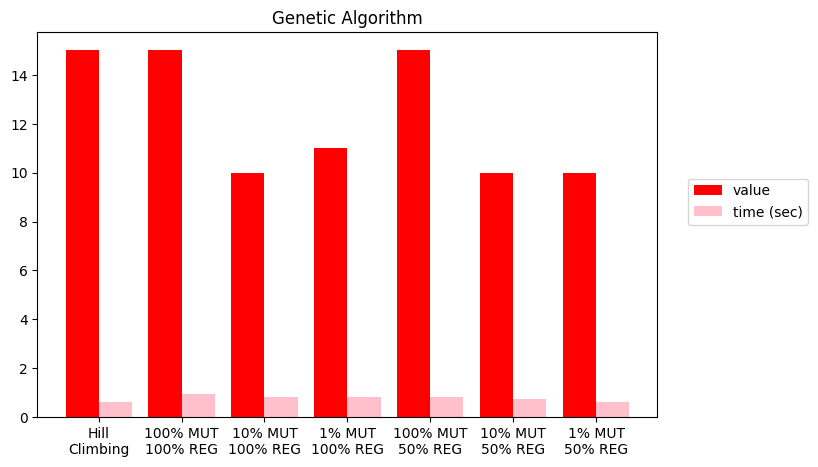
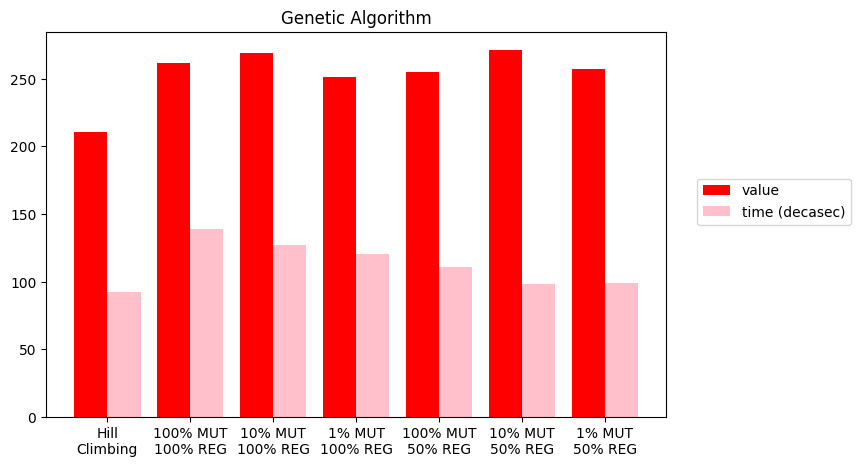
Removed y min plot

diff --git a/graphs.py b/graphs.py
@@ -110,7 +110,6 @@ def plot_genetic(data_center, iterations, neighbour_modes):
     pyplot.xticks(x_axis, algorithms)
     pyplot.title('Genetic Algorithm')
     ax = pyplot.gca()
-    ax.set_ylim(ymin = 0)
     pyplot.savefig('plots/genetic_bar.png',bbox_inches='tight')
     pyplot.clf()
 
@@ -122,7 +121,6 @@ def plot_genetic(data_center, iterations, neighbour_modes):
     pyplot.ylabel('Evaluation')
     pyplot.xlabel('Iteration')
     ax = pyplot.gca()
-    ax.set_ylim(ymin = 0)
     pyplot.savefig('plots/genetic_line.png',bbox_inches='tight')
 
 
